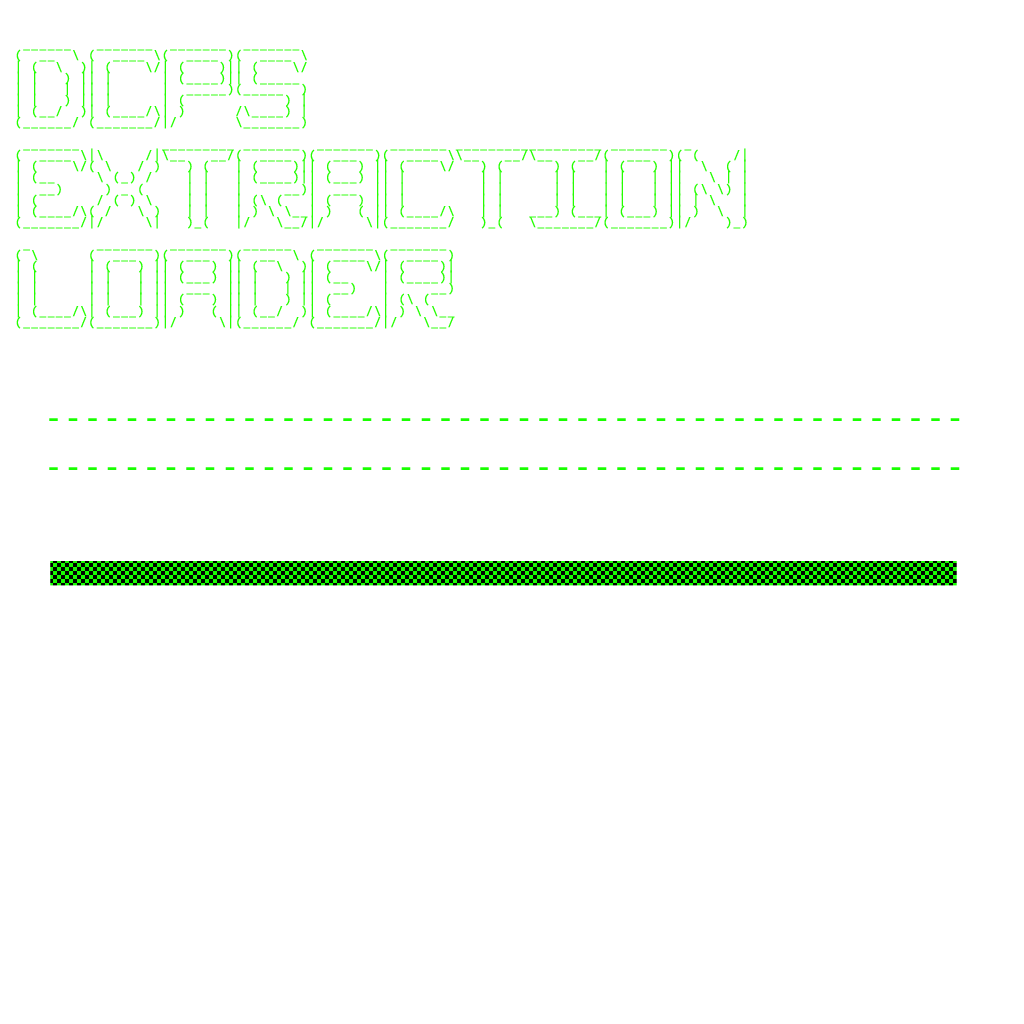
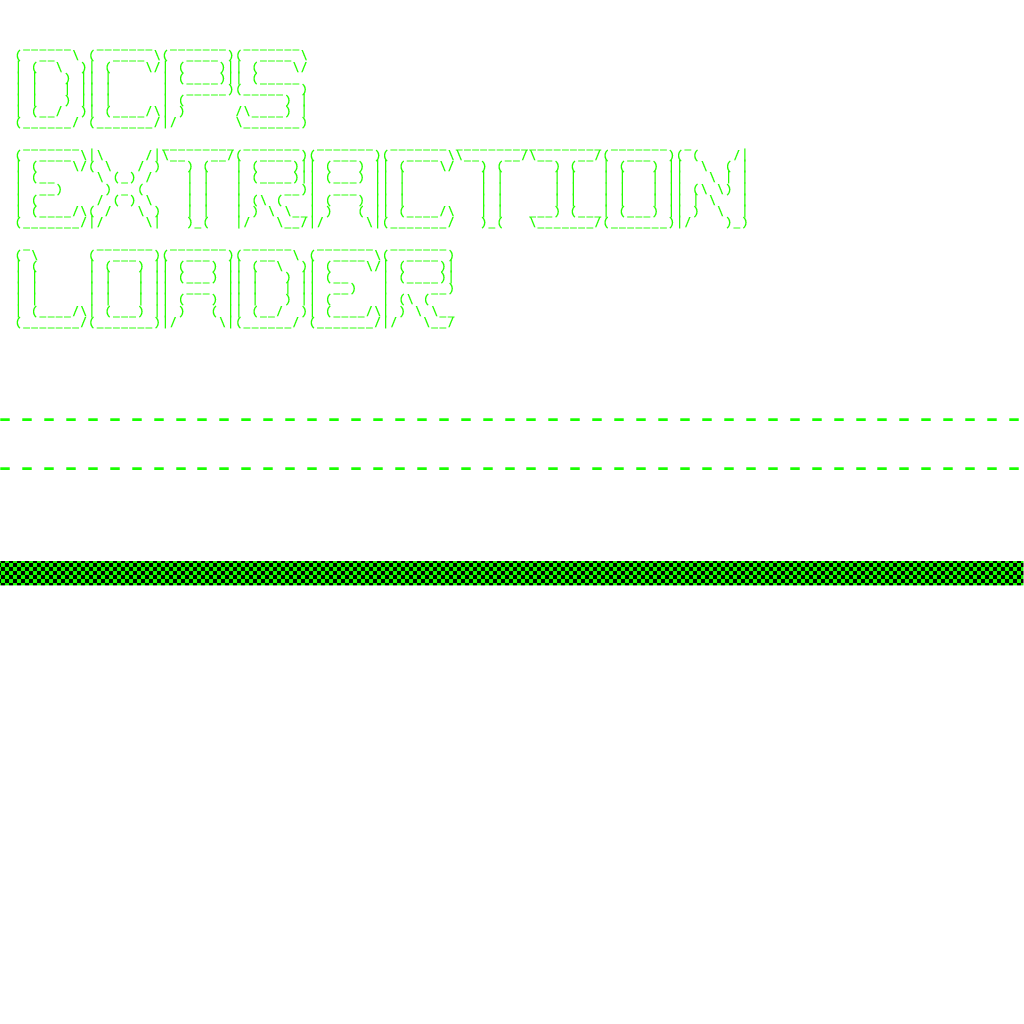
Upgraded Loading Bar
Has art

Changed region(s): [[0.0, 0.5312, 1.0, 0.5938]]

diff --git a/Project-Perfect-Citizen/Code/Engine/World.cpp b/Project-Perfect-Citizen/Code/Engine/World.cpp
@@ -33,6 +33,13 @@ bool World::quitter_ = false;
 
 sf::RectangleShape World::tempLoadScreen_ = sf::RectangleShape({ 1000,1000 });
 sf::RectangleShape World::tempLoadBar_ = sf::RectangleShape({ 500, 50 });
+
+sf::Image World::loadImage_ = sf::Image();
+sf::Texture World::loadTexture_ = sf::Texture();
+sf::Sprite World::loadBar_ = sf::Sprite();
+sf::Sprite World::loadBarBorder_ = sf::Sprite();
+sf::Sprite World::loadingDecal_ = sf::Sprite();
+
 bool World::isLoading_ = false;
 
 void World::setGameScreen(sf::RenderWindow& gameScreen) {
@@ -140,6 +147,26 @@ sf::Font& ppc::World::getFont(FontList f) {
 
 
 void ppc::World::initLoadScreen() {
+    
+    loadImage_.loadFromFile(resourcePath() + "World_Sheet.png");
+    loadTexture_.loadFromImage(loadImage_);
+
+    loadBar_.setTexture(loadTexture_);
+    loadBar_.setPosition(100.f, 500.f);
+    loadBar_.setScale(1.f, 1.f);
+    loadBar_.setTextureRect({0,4*128, 0, 128});
+    loadBar_.setScale(0.75f,0.75f);
+    
+    
+    loadBarBorder_.setTexture(loadTexture_);
+    loadBarBorder_.setPosition(100.f, 500.f);
+    loadBarBorder_.setScale(1.f, 1.f);
+    loadBarBorder_.setTextureRect({0,3*128, 8*128, 128});
+    loadBarBorder_.setScale(0.75f,0.75f);
+    
+    loadingDecal_.setTexture(loadTexture_);
+    loadingDecal_.setTextureRect({0,0, 6*128, 3*128});
+    loadingDecal_.setPosition(150, 100);
 
 	tempLoadScreen_.setPosition(0.f, 0.f);
 	tempLoadScreen_.setFillColor(sf::Color::Black);
@@ -159,6 +186,7 @@ void ppc::World::startLoading() {
 
 void ppc::World::setLoading(float f) {
 	if (f > 1.f || f < 0.f) f = 1.f;
+    loadBar_.setTextureRect({0, 4*128, static_cast<int>(1024*f),128});
 	tempLoadBar_.setSize({ 500.f * f, 50.f });
 	drawLoading();
 }
@@ -166,8 +194,11 @@ void ppc::World::setLoading(float f) {
 void ppc::World::drawLoading() {
 	if (isLoading_ == false) return;
 	screen_->clear(sf::Color::Black);
-	screen_->draw(tempLoadScreen_);
-	screen_->draw(tempLoadBar_);
+	//screen_->draw(tempLoadScreen_);
+	//screen_->draw(tempLoadBar_);
+    screen_->draw(loadingDecal_);
+    screen_->draw(loadBarBorder_);
+    screen_->draw(loadBar_);
 	screen_->display();
 }
 

diff --git a/Project-Perfect-Citizen/Code/Engine/World.h b/Project-Perfect-Citizen/Code/Engine/World.h
@@ -125,6 +125,16 @@ namespace ppc {
 		static bool isLoading_;
 
 		static sf::RectangleShape tempLoadScreen_;
+        
+        static sf::Image loadImage_;
+        
+        static sf::Texture loadTexture_;
+        
+        static sf::Sprite loadBar_;
+        
+        static sf::Sprite loadBarBorder_;
+        
+        static sf::Sprite loadingDecal_;
 
 		static sf::RectangleShape tempLoadBar_;
 
